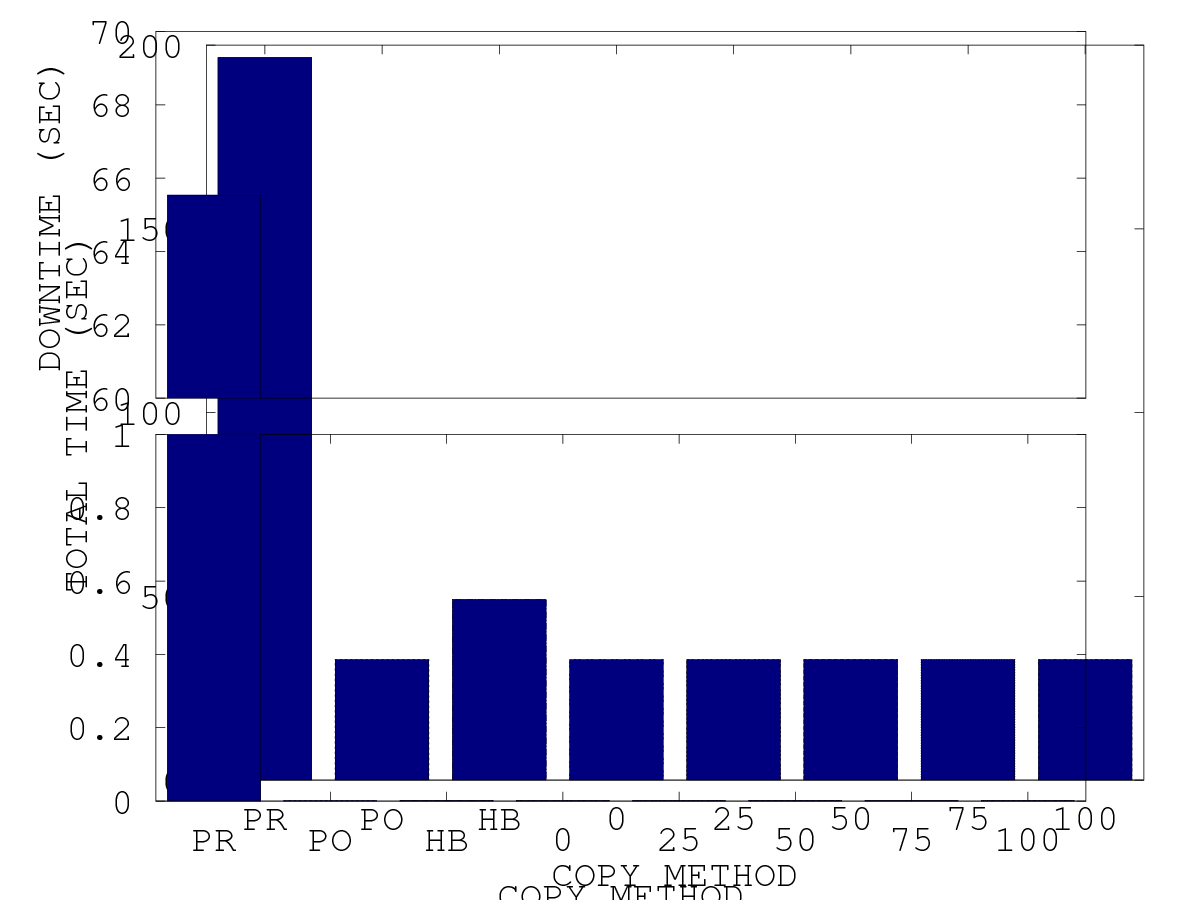
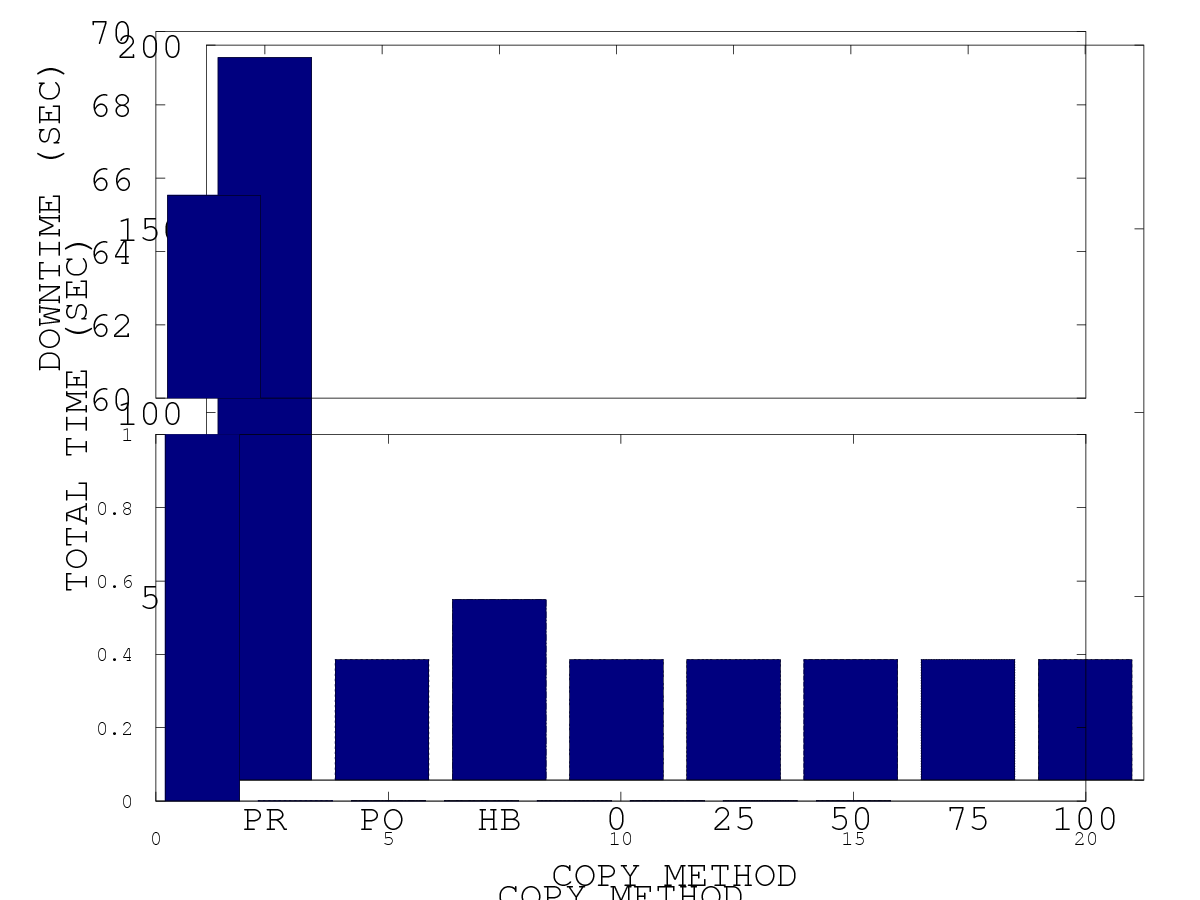
basic_break.m

diff --git a/basic_break.m b/basic_break.m
@@ -322,7 +322,7 @@ a1 = axes ('position', [p0(1) p0(2) p0(3) p0(4)/2]);
 bar(A(:,2))
 bar(xintervals, A(:,2))
 %set(gca, 'XTick', 1:8, 'XTickLabel', x, 'FontSize', fontsize)
-set(gca, 'XTick', xintervals, 'XTickLabel', x, 'FontSize', fontsize)
+%set(gca, 'XTick', xintervals, 'XTickLabel', x, 'FontSize', fontsize)
 set (a1, 'ylim', ylim1);
 %set(a1, 'xtick', []);
 xlabel('COPY METHOD', 'FontSize', fontsize);
